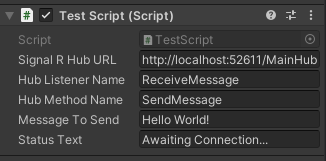
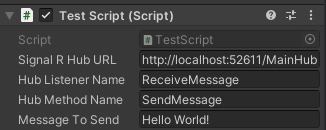
update readme

diff --git a/README.md b/README.md
@@ -1,16 +1,14 @@
 # Unity WebGL SignalR
 
-A basic library with example components for using SignalR in Unity WebGL.
+## Repo Components
+
+- **Unity**: Unity3D project with SignalR library plugin (for editor / WebGL) and example scene
+- **Server**: ASP.NET Core project with a single SignalR hub for connection (CORS enabled)
+- **Client**: Node.js/Express project to serve built WebGL files from Unity
 
 The hub is set to receive and broadcast a global message that invokes the listeners of all connected clients.
 
 This functionality could be greatly extended for actual use in games or applications.
-
-## Repo Components
-
-- **Unity**: Example Unity3D project making use of all components
-- **Server**: ASP.NET Core starter project with single hub for connection
-- **Client**: Node/Express project to serve built WebGL files
 
 ## Library
 
@@ -38,13 +36,13 @@ srLib.Init("<SignalRHubURL>", "<HubListenerName>");
 
 srLib.ConnectionStarted += (object sender, MessageEventArgs e) =>
 {
-    // DisplayMessage(e.Message);
+    Debug.Log(e.message);
     srLib.SendMessage("<HubMethodName>", "<MessageToSend>");
 };
 
 srLib.MessageReceived += (object sender, MessageEventArgs e) =>
 {
-    // DisplayMessage(e.Message);
+    Debug.Log(e.message);
 };
 ```
 
@@ -58,7 +56,6 @@ srLib.MessageReceived += (object sender, MessageEventArgs e) =>
 - **Hub Listener Name**: Name of listener to be invoked by the hub
 - **Hub Method Name**: Name of method in the Hub to receive message
 - **Message to Send**: Message to send to the hub
-- **Status Text**: Initial text to be displayed
 
 ### Successful Result
 
